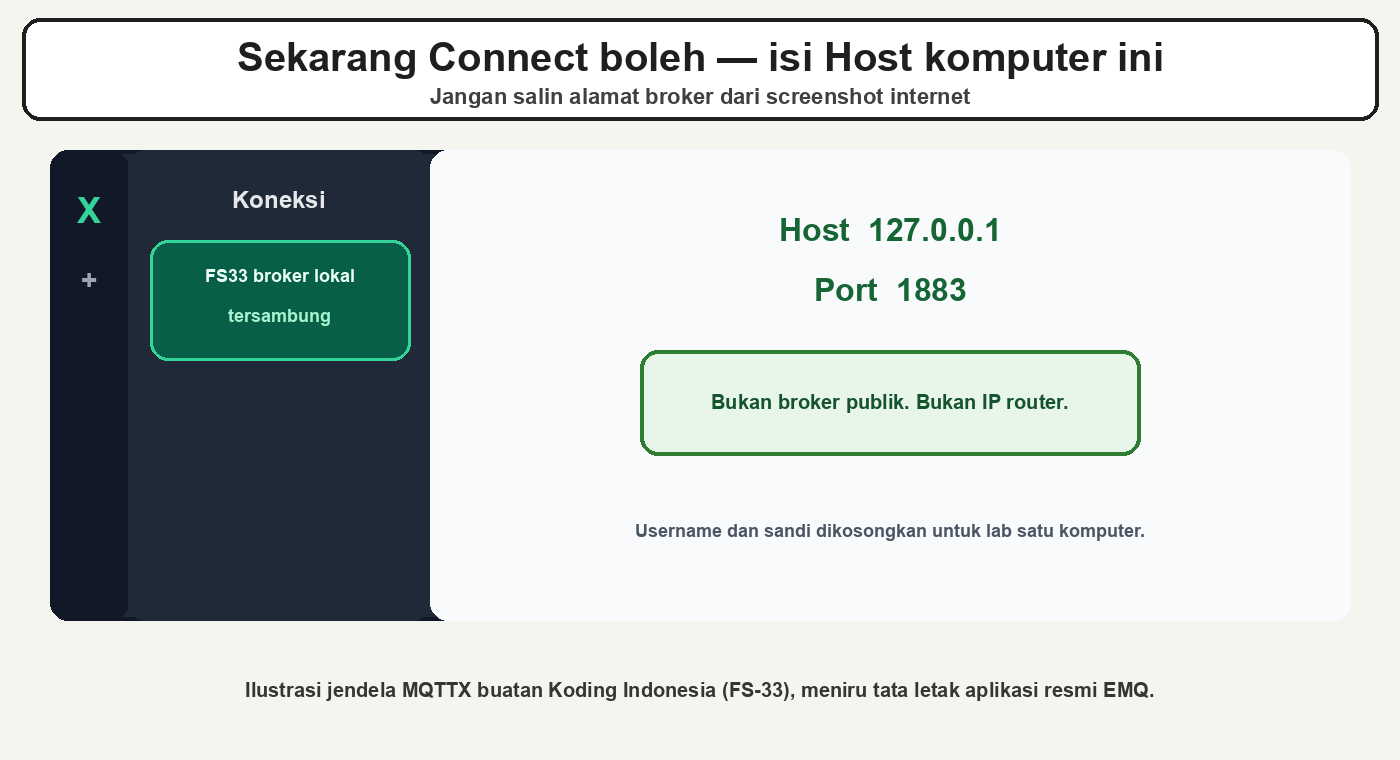
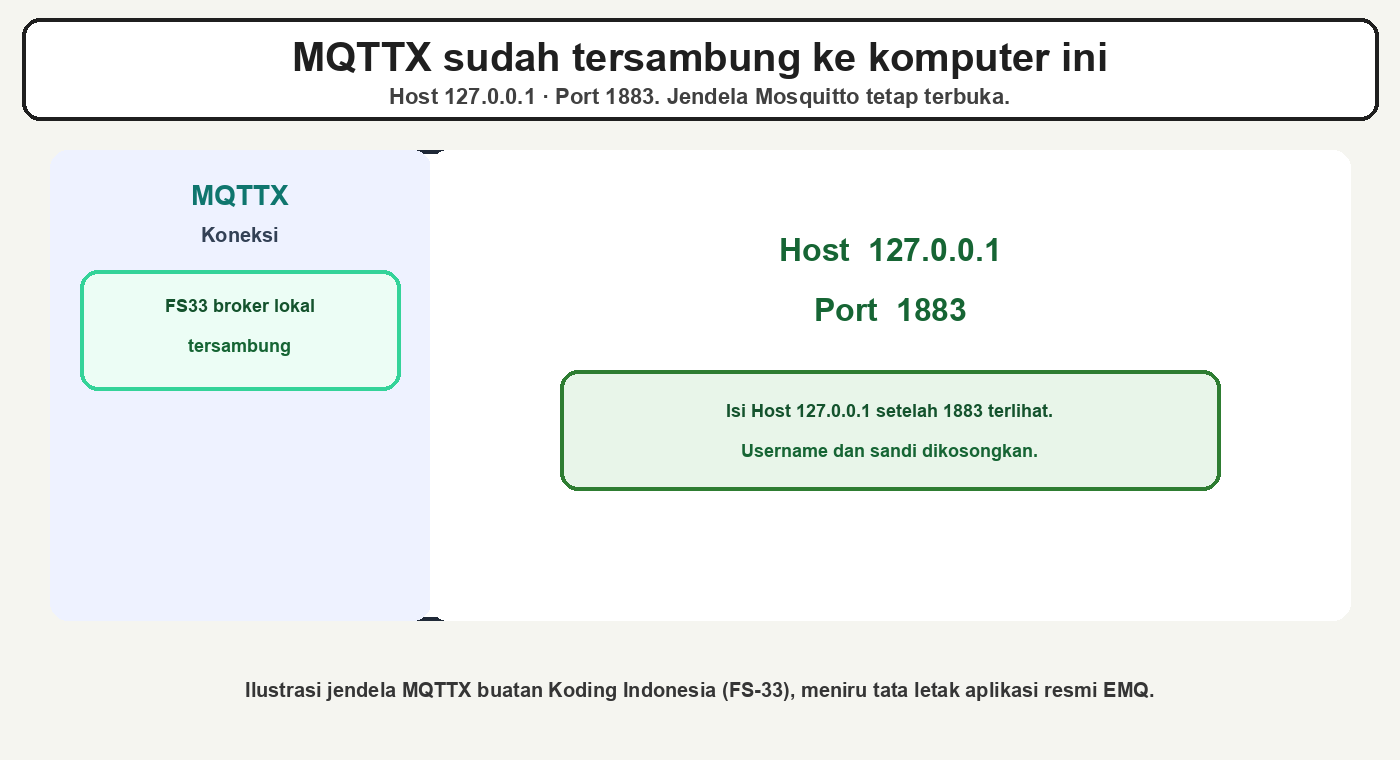
fix(fsiot): rewrite FS-33 MQTTX caption that sounded like an error
Replace the dark MQTTX mockup and negative copy with a light connected state: Host 127.0.0.1, Port 1883, no error wording.

diff --git a/database/seeders/Article103Seeder.php b/database/seeders/Article103Seeder.php
@@ -89,7 +89,7 @@ class Article103Seeder extends Seeder
         $tools = $this->figure('fs33-tools-order.png', 'Urutan lima langkah: browser, halaman unduhan, pasang Mosquitto, PowerShell, lalu MQTTX', '<strong>Urutan meja kerja (lima langkah):</strong> browser → halaman unduhan resmi → pemasang Mosquitto → PowerShell untuk menjalankan broker → MQTTX. Baru sekarang Connect boleh. Diagram buatan Koding Indonesia (FS-33).');
         $downloads = $this->figure('fs33-mosquitto-downloads.png', 'Bagian Windows pada halaman unduhan resmi Eclipse Mosquitto', '<strong>Ini bagian yang harus diklik.</strong> Pada heading <strong>Windows</strong>, unduh berkas <code>x64.exe</code> (bukan x86, bukan Source .tar.gz). Sumber: <a href="https://mosquitto.org/download/" target="_blank" rel="noopener noreferrer">mosquitto.org/download</a> — Eclipse Mosquitto / Eclipse Foundation. Tangkapan layar 13 Agustus 2026. Mosquitto berlisensi Eclipse Public License 2.0 dan Eclipse Distribution License 1.0.');
         $local = $this->figure('fs33-local-only.png', 'MQTTX dan Mosquitto berada pada komputer yang sama', '<strong>Batas lab.</strong> <code>127.0.0.1</code> menunjuk komputer ini. Pesan tidak memakai broker publik dan tidak perlu keluar ke internet. Diagram buatan Koding Indonesia (FS-33).');
-        $mqttx = $this->figure('fs33-mqttx-local.png', 'Ilustrasi MQTTX tersambung ke Host 127.0.0.1 dan Port 1883', '<strong>Sekarang Connect boleh.</strong> Host = <code>127.0.0.1</code>, Port = <code>1883</code>. Jangan salin alamat broker dari screenshot internet. Ilustrasi buatan Koding Indonesia (FS-33), meniru tata letak aplikasi resmi <a href="https://mqttx.app/" target="_blank" rel="noopener noreferrer">MQTTX oleh EMQ</a> (Apache License 2.0). Screenshot jendela resmi tidak dipakai utuh karena menampilkan broker publik.');
+        $mqttx = $this->figure('fs33-mqttx-local.png', 'Ilustrasi jendela MQTTX yang sudah tersambung: Host 127.0.0.1, Port 1883', '<strong>MQTTX sudah tersambung ke komputer ini.</strong> Host = <code>127.0.0.1</code>, Port = <code>1883</code>. Jendela Mosquitto tetap terbuka. Jangan salin alamat broker dari screenshot internet. Ilustrasi buatan Koding Indonesia (FS-33), meniru tata letak aplikasi resmi <a href="https://mqttx.app/" target="_blank" rel="noopener noreferrer">MQTTX oleh EMQ</a> (Apache License 2.0). Screenshot jendela resmi tidak dipakai utuh karena menampilkan broker publik.');
         $message = $this->figure('fs33-first-message.png', 'Alur kiri ke kanan: MQTTX mengirim, Mosquitto meneruskan, MQTTX melihat pesan', '<strong>Gambar utama — pesan pertama.</strong> Baca dari kiri ke kanan: MQTTX mengirim → Mosquitto menerima lalu meneruskan → MQTTX melihat pesan. Satu jendela MQTTX boleh melakukan keduanya. Diagram buatan Koding Indonesia (FS-33).');
         $troubleshooting = $this->figure('fs33-troubleshooting.png', 'Tiga pemeriksaan saat MQTTX tidak dapat terhubung ke Mosquitto lokal', '<strong>Skema bantu.</strong> Periksa jendela broker, alamat <code>127.0.0.1</code>, lalu port <code>1883</code>. Diagram buatan Koding Indonesia (FS-33).');
         $install = $this->stepsCard([
@@ -259,7 +259,7 @@ HTML;
         $tools = $this->figure('fs33-tools-order.png', 'Five-step tool order: browser, download page, install Mosquitto, PowerShell, then MQTTX', '<strong>Desk order (five steps):</strong> browser → official download page → Mosquitto installer → PowerShell to run the broker → MQTTX. Connect is allowed only now. Diagram by Koding Indonesia (FS-33).');
         $downloads = $this->figure('fs33-mosquitto-downloads.png', 'Windows section of the official Eclipse Mosquitto download page', '<strong>This is the part to click.</strong> Under the <strong>Windows</strong> heading, download the <code>x64.exe</code> file (not x86, not the Source .tar.gz). Source: <a href="https://mosquitto.org/download/" target="_blank" rel="noopener noreferrer">mosquitto.org/download</a> — Eclipse Mosquitto / Eclipse Foundation. Screenshot taken 13 August 2026. Mosquitto is licensed under the Eclipse Public License 2.0 and the Eclipse Distribution License 1.0.');
         $local = $this->figure('fs33-local-only.png', 'MQTTX and Mosquitto on the same computer', '<strong>Lab boundary.</strong> <code>127.0.0.1</code> means this computer. Messages do not use a public broker or leave to the internet. Diagram by Koding Indonesia (FS-33).');
-        $mqttx = $this->figure('fs33-mqttx-local.png', 'Illustration of MQTTX connected to Host 127.0.0.1 and Port 1883', '<strong>Connect is allowed now.</strong> Host = <code>127.0.0.1</code>, Port = <code>1883</code>. Do not copy a broker address from an internet screenshot. Illustration by Koding Indonesia (FS-33), modelled on the official <a href="https://mqttx.app/" target="_blank" rel="noopener noreferrer">MQTTX by EMQ</a> layout (Apache License 2.0). The official window screenshot is not used as-is because it shows a public broker.');
+        $mqttx = $this->figure('fs33-mqttx-local.png', 'Illustration of MQTTX already connected: Host 127.0.0.1, Port 1883', '<strong>MQTTX is already connected to this computer.</strong> Host = <code>127.0.0.1</code>, Port = <code>1883</code>. Keep the Mosquitto window open. Do not copy a broker address from an internet screenshot. Illustration by Koding Indonesia (FS-33), modelled on the official <a href="https://mqttx.app/" target="_blank" rel="noopener noreferrer">MQTTX by EMQ</a> layout (Apache License 2.0). The official window screenshot is not used as-is because it shows a public broker.');
         $message = $this->figure('fs33-first-message.png', 'Left-to-right flow: MQTTX sends, Mosquitto forwards, MQTTX sees the message', '<strong>Main figure — first message.</strong> Read left to right: MQTTX publishes → Mosquitto receives and forwards → MQTTX sees the message. One MQTTX window may do both. Diagram by Koding Indonesia (FS-33).');
         $troubleshooting = $this->figure('fs33-troubleshooting.png', 'Three checks when MQTTX cannot connect to local Mosquitto', '<strong>Helper schematic.</strong> Check the broker window, <code>127.0.0.1</code>, then port <code>1883</code>. Diagram by Koding Indonesia (FS-33).');
         $install = $this->stepsCard([

diff --git a/scripts/gen-fs33-assets.py b/scripts/gen-fs33-assets.py
@@ -114,22 +114,20 @@ save(image, 'fs33-local-only.png')
 # MQTTX local connected illustration (do not reuse official preview: it shows a public broker)
 image = Image.new('RGB', (1400, 760), '#f5f5f0')
 draw = ImageDraw.Draw(image)
-header(draw, 1400, 'Sekarang Connect boleh — isi Host komputer ini', 'Jangan salin alamat broker dari screenshot internet')
-box(draw, (50, 150, 1350, 620), '#1f2937', '#111827', 4)
-box(draw, (50, 150, 128, 620), '#111827', '#111827', 0)
-text(draw, 89, 210, 'X', 36, '#34d399')
-text(draw, 89, 280, '+', 28, '#9ca3af')
-box(draw, (128, 150, 430, 620), '#1f2937', '#1f2937', 0)
-text(draw, 279, 200, 'Koneksi', 24, '#e5e7eb')
-box(draw, (150, 240, 410, 360), '#065f46', '#34d399', 3)
-text(draw, 280, 275, 'FS33 broker lokal', 18, '#ecfdf5')
-text(draw, 280, 315, 'tersambung', 18, '#a7f3d0')
-box(draw, (430, 150, 1350, 620), '#f8fafc', '#e5e7eb', 0)
-text(draw, 890, 230, 'Host  127.0.0.1', 32, '#166534')
-text(draw, 890, 290, 'Port  1883', 32, '#166534')
-box(draw, (640, 350, 1140, 455), '#e8f5e9', '#2e7d32', 4)
-text(draw, 890, 402, 'Bukan broker publik. Bukan IP router.', 20, '#14532d')
-text(draw, 890, 530, 'Username dan sandi dikosongkan untuk lab satu komputer.', 18, '#4b5563')
+header(draw, 1400, 'MQTTX sudah tersambung ke komputer ini', 'Host 127.0.0.1 · Port 1883. Jendela Mosquitto tetap terbuka.')
+box(draw, (50, 150, 1350, 620), '#ffffff', '#1f2937', 4)
+box(draw, (50, 150, 430, 620), '#eef2ff', '#cbd5e1', 0)
+text(draw, 240, 195, 'MQTTX', 28, '#0f766e')
+text(draw, 240, 235, 'Koneksi', 20, '#334155')
+box(draw, (80, 270, 400, 390), '#ecfdf5', '#34d399', 4)
+text(draw, 240, 305, 'FS33 broker lokal', 18, '#14532d')
+text(draw, 240, 345, 'tersambung', 18, '#166534')
+box(draw, (430, 150, 1350, 620), '#ffffff', '#e5e7eb', 0)
+text(draw, 890, 250, 'Host  127.0.0.1', 32, '#166534')
+text(draw, 890, 310, 'Port  1883', 32, '#166534')
+box(draw, (560, 370, 1220, 490), '#e8f5e9', '#2e7d32', 4)
+text(draw, 890, 410, 'Isi Host 127.0.0.1 setelah 1883 terlihat.', 18, '#14532d')
+text(draw, 890, 450, 'Username dan sandi dikosongkan.', 18, '#166534')
 text(draw, 700, 690, 'Ilustrasi jendela MQTTX buatan Koding Indonesia (FS-33), meniru tata letak aplikasi resmi EMQ.', 20, '#353535')
 save(image, 'fs33-mqttx-local.png')
 

diff --git a/scripts/audit-article103.php b/scripts/audit-article103.php
@@ -75,7 +75,7 @@ check103('Mosquitto primary sources cited', str_contains($body, 'mosquitto.org/d
 check103('official downloads screenshot is cited', str_contains($body, 'fs33-mosquitto-downloads.png') && str_contains($body, 'Tangkapan layar 13 Agustus 2026') && str_contains($bodyEn, 'Screenshot taken 13 August 2026'));
 check103('Eclipse licence is cited', str_contains($body, 'Eclipse Public License 2.0') && str_contains($bodyEn, 'Eclipse Public License 2.0'));
 check103('official MQTTX screenshot is not used as-is', str_contains($body, 'Screenshot jendela resmi tidak dipakai utuh') && str_contains($bodyEn, 'official window screenshot is not used as-is'));
-check103('MQTTX local state is labelled as Connect allowed', str_contains($body, 'Sekarang Connect boleh') && str_contains($bodyEn, 'Connect is allowed now'));
+check103('MQTTX connected state describes Host/Port without saying error', str_contains($body, 'MQTTX sudah tersambung ke komputer ini') && str_contains($bodyEn, 'MQTTX is already connected to this computer') && ! str_contains($body, 'Ini tampilan yang benar, bukan error') && ! str_contains($body, 'bukan layar error') && ! str_contains($bodyEn, 'This is the correct view, not an error') && ! str_contains($bodyEn, 'not an error screen'));
 check103('cover uses the public FS-33 asset', str_contains($source, 'https://kodingindonesia.com/images/fsiot/fs33-cover-mosquitto.webp'));
 check103('article view supports absolute cover URLs', str_contains($blade, "str_starts_with(\$article->cover_image, 'http')"));
 check103('H2 parity', substr_count($body, '<h2') === substr_count($bodyEn, '<h2') && substr_count($body, '<h2') >= 16);
